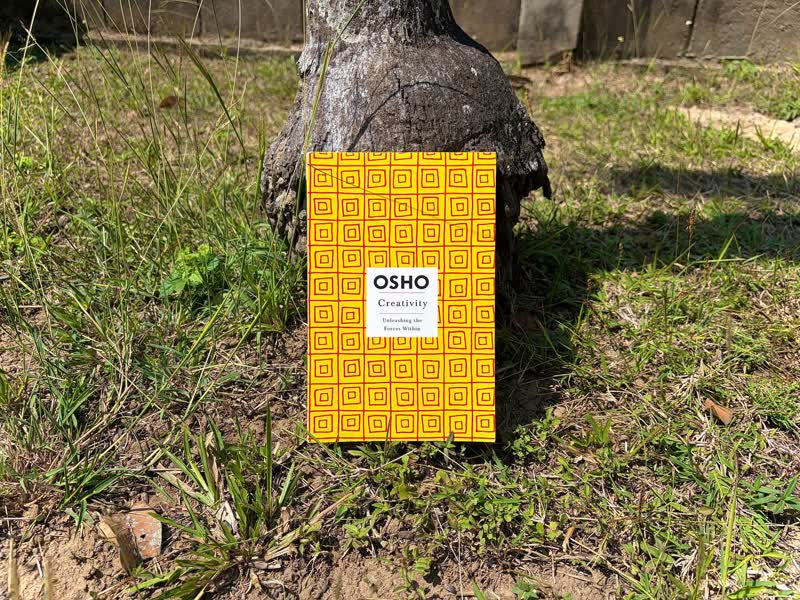
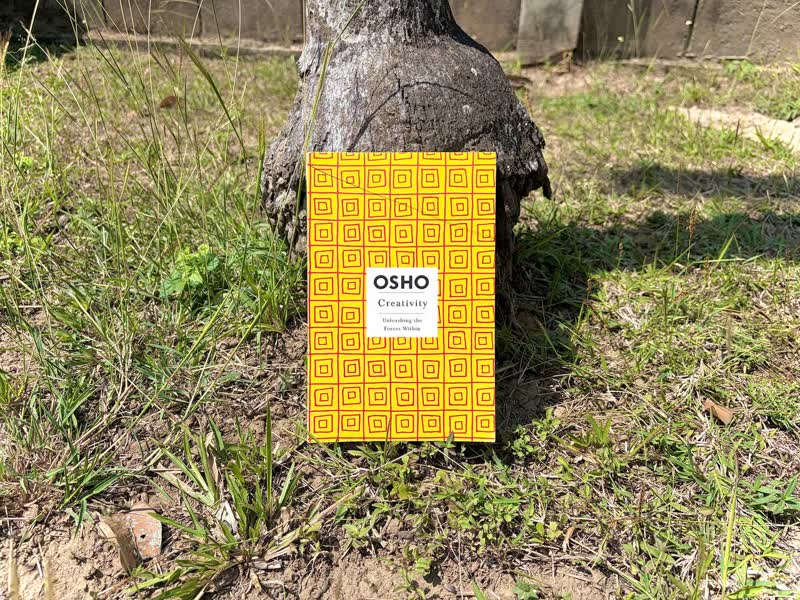
Creativity by OSHO: サムネ差し替え v8（419KB→149KB）

diff --git a/posts/creativity-by-osho-book-review.php b/posts/creativity-by-osho-book-review.php
@@ -7,7 +7,7 @@ require dirname(__DIR__) . '/header.php';
 <a href="/"><img src="/img/logo.png" alt="manablog" class="logo"></a>
 <time>27 Feb, 2026</time>
 <h1 class="title">【Book Review】Creativity by OSHO【My Personal Note】</h1>
-<img src="/img/creativity-by-osho-book-review.jpg?v=7">
+<img src="/img/creativity-by-osho-book-review.jpg?v=8">
 
 <blockquote>
 <p>Watch yourself and see: 90% of your energy is wasted in activity. And because of this, when the moment for action comes you don't have any energy.</p>
